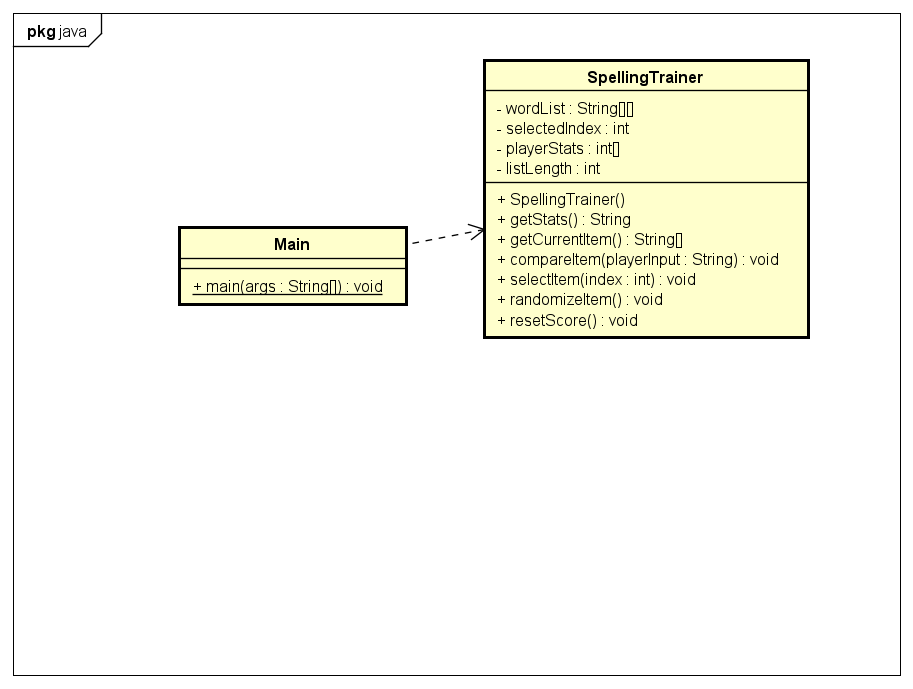
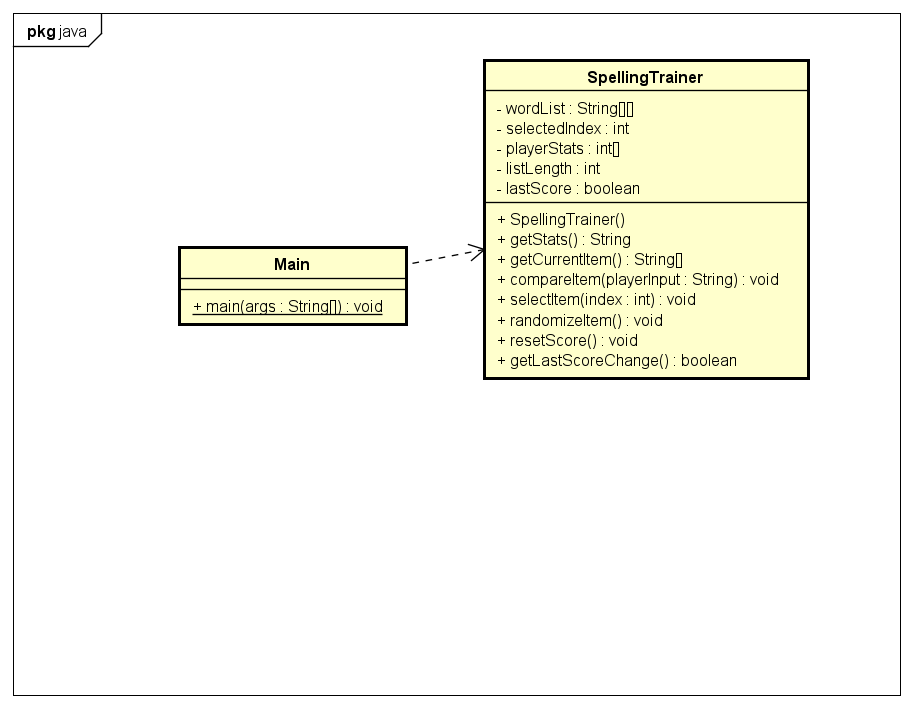
UML update

diff --git a/worttrainer/src/main/java/aKaraca/Main.java b/worttrainer/src/main/java/aKaraca/Main.java
@@ -1,5 +1,7 @@
 package aKaraca;
 
+import javax.swing.*;
+
 public class Main {
 
 
@@ -24,19 +26,8 @@ public class Main {
         }
         System.out.println(spellingTrainer.getStats());
 
+        JOptionPane.showInputDialog("");
 
-        spellingTrainer.randomizeItem();
-        try {
-            System.out.println(spellingTrainer.getCurrentItem()[0]);
-        } catch (Exception e) {
-            throw new RuntimeException(e);
-        }
-        try {
-            spellingTrainer.compareItem(System.console().readLine());
-        } catch (Exception e) {
-            throw new RuntimeException(e);
-        }
-        System.out.println(spellingTrainer.getStats());
 
     }
 }
